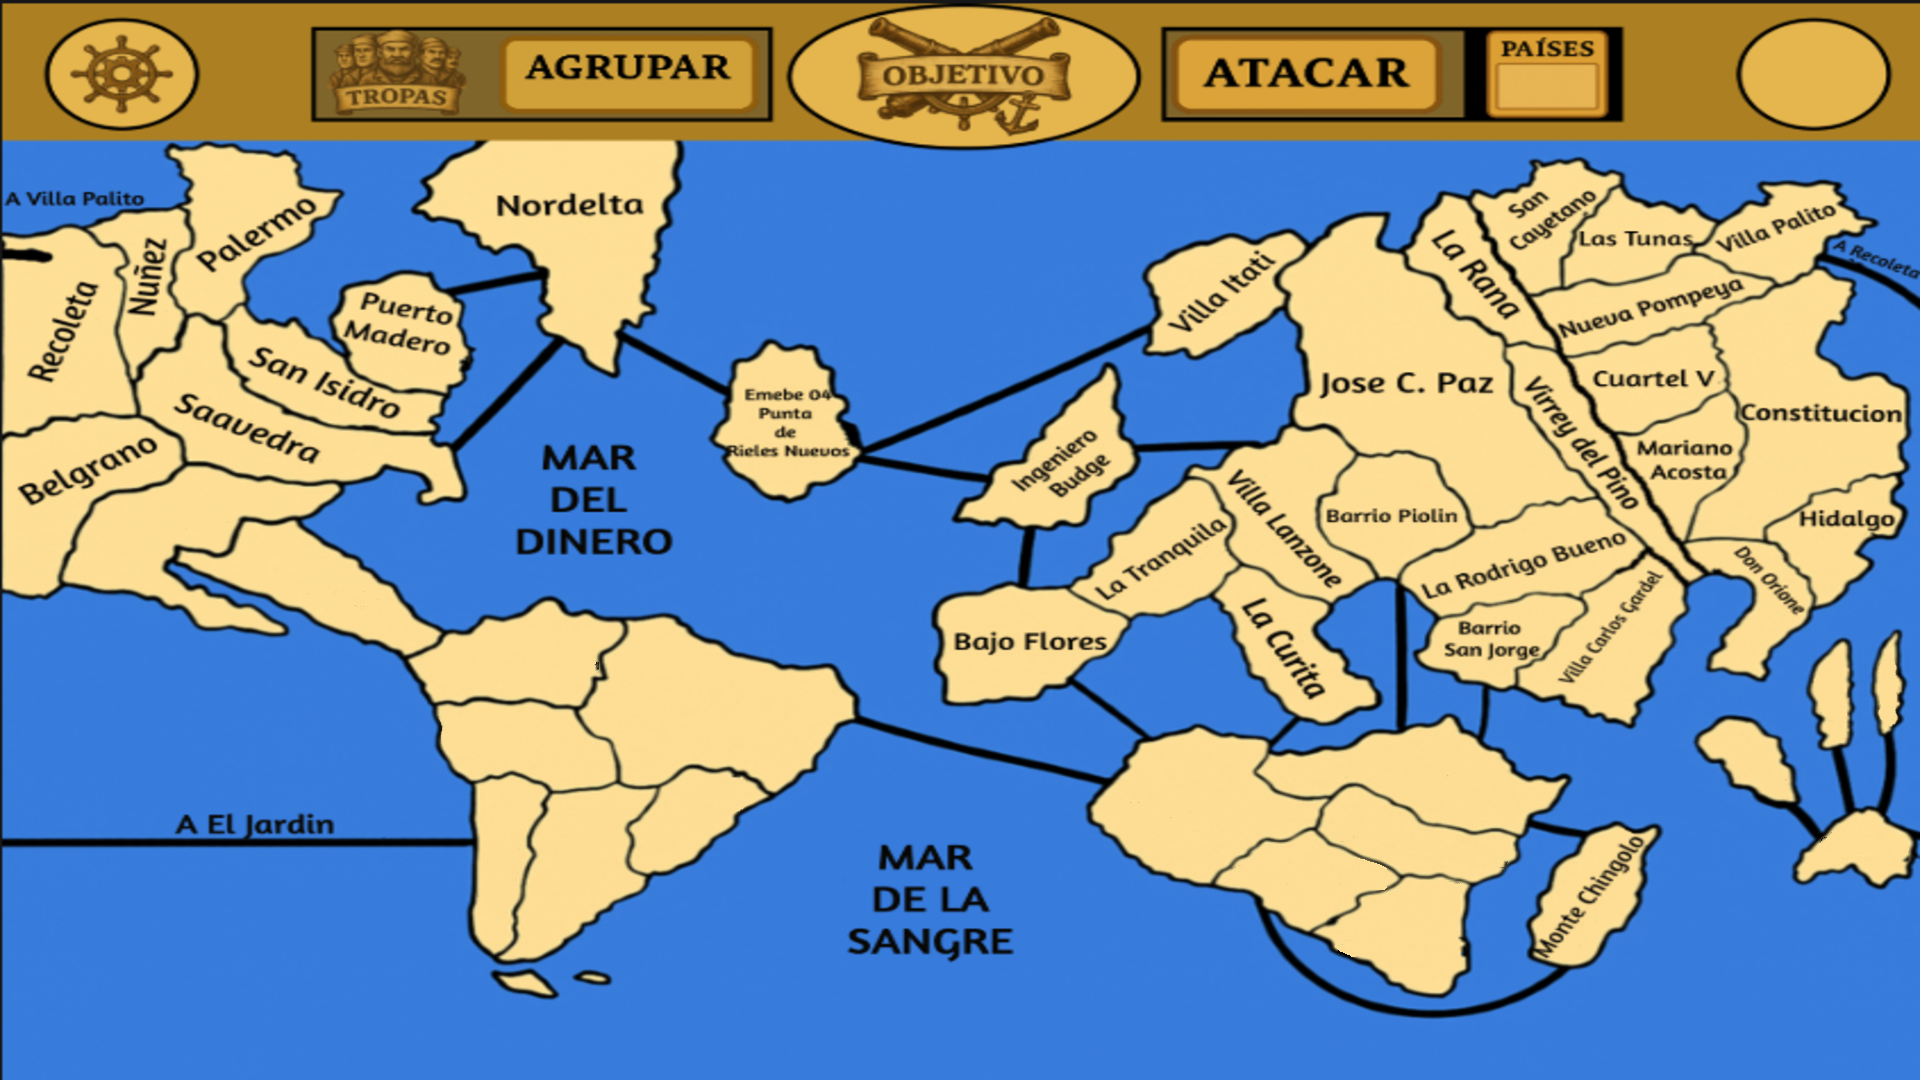
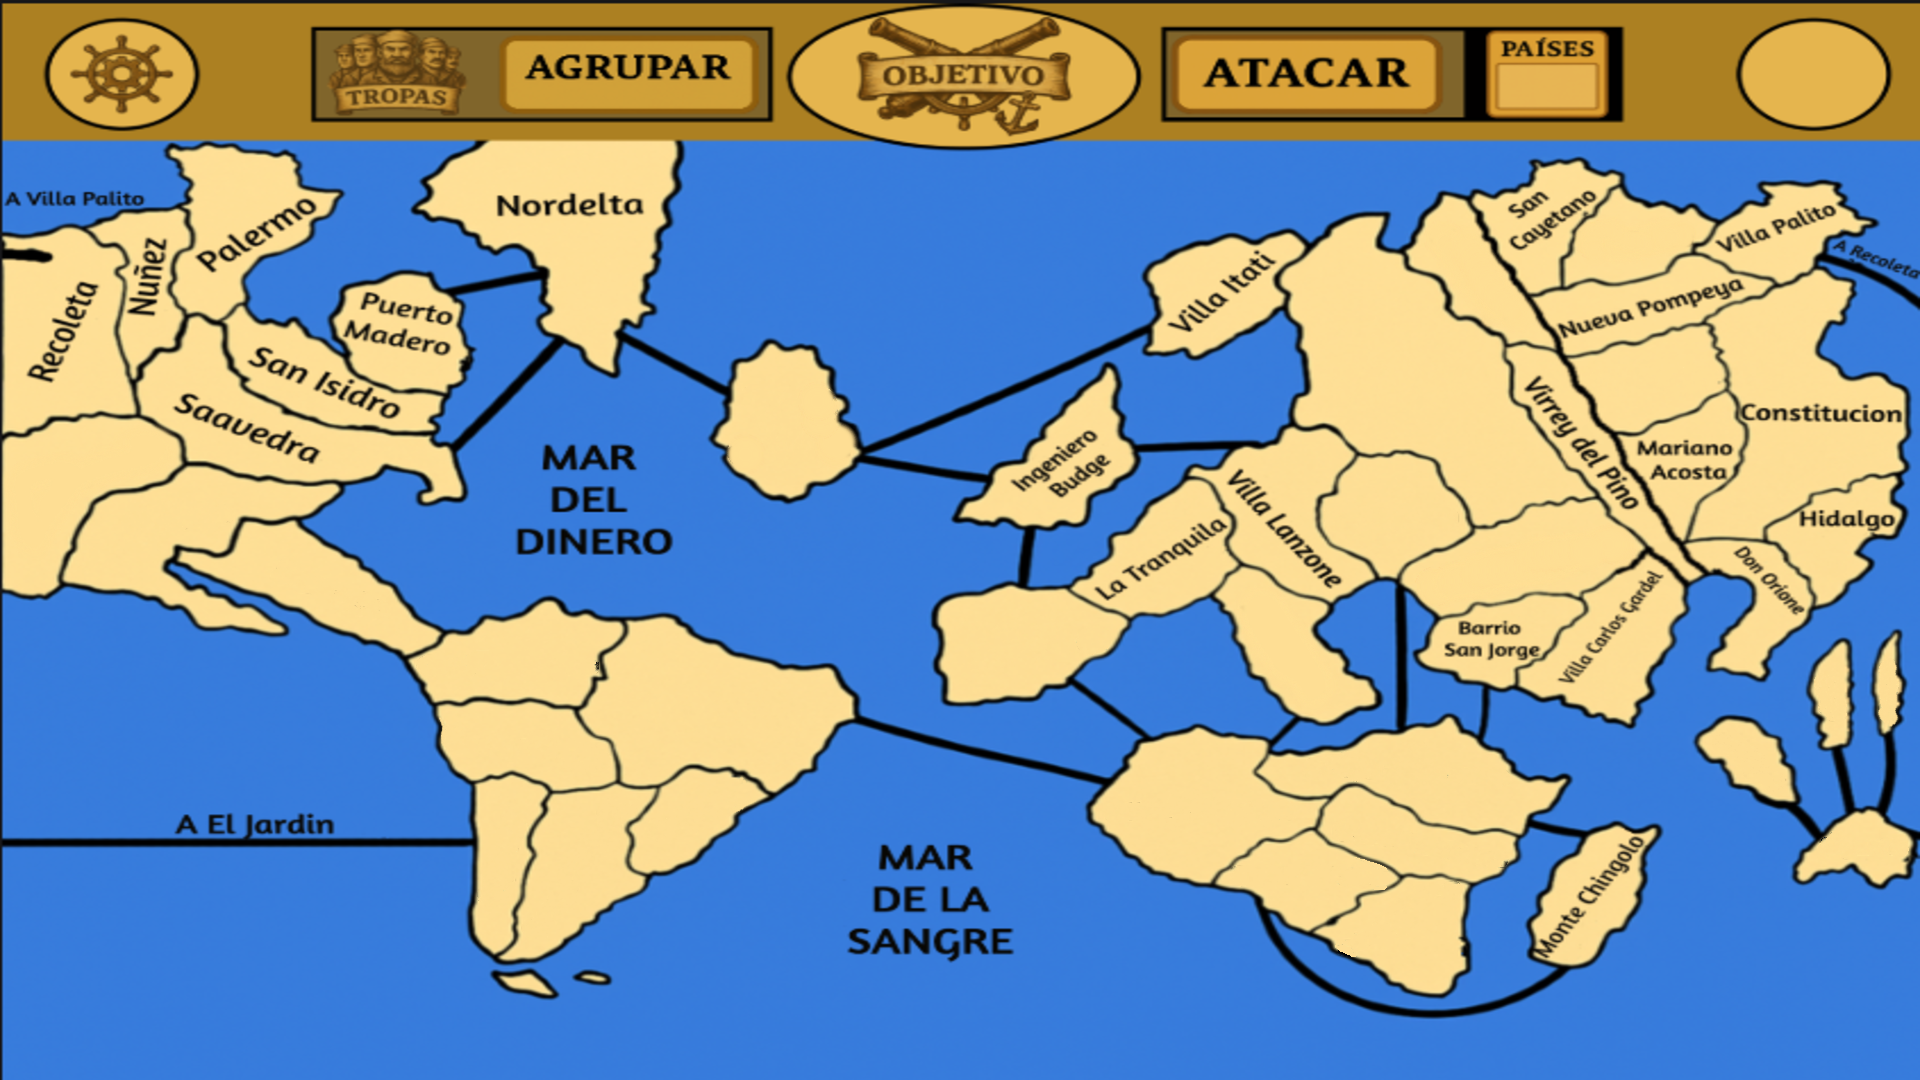
subiendo mas png de paises y agregando cordenadas de los png

diff --git a/core/src/main/java/com/miempresa/mijuego/pantallas/PantallaJuego.java b/core/src/main/java/com/miempresa/mijuego/pantallas/PantallaJuego.java
@@ -132,7 +132,7 @@ public class PantallaJuego implements Screen {
         spritesPaises.put("Villa la Cava", villaLaCava);
 */
         Sprite bajoFlores = new Sprite(new Texture("bajoFlores.png"));
-        bajoFlores.setPosition(1020, 437);
+        bajoFlores.setPosition(960, 420);
         bajoFlores.setScale(1.5f);
         spritesPaises.put("Bajo Flores", bajoFlores);
 
@@ -142,7 +142,7 @@ public class PantallaJuego implements Screen {
         spritesPaises.put("Pablo Mugica", pabloMugica);
 
         Sprite laRodrigoBueno = new Sprite(new Texture("laRodrigoBueno.png"));
-        laRodrigoBueno.setPosition(1425, 480);
+        laRodrigoBueno.setPosition(1450, 485);
         laRodrigoBueno.setScale(1.5f);
         spritesPaises.put("La Rodrigo Bueno", laRodrigoBueno);
 /*
@@ -183,7 +183,7 @@ public class PantallaJuego implements Screen {
         spritesPaises.put("La Tranquila", laTranquila);
 */
         Sprite laRana = new Sprite(new Texture("laRana.png"));
-        laRana.setPosition(1435, 850);
+        laRana.setPosition(1435, 770);
         laRana.setScale(1.5f);
         spritesPaises.put("La Rana", laRana);
 /*
@@ -197,17 +197,17 @@ public class PantallaJuego implements Screen {
         spritesPaises.put("Fuerte Apache", fuerteApache);
 
         Sprite cuartelV = new Sprite(new Texture("cuartelV.png"));
-        cuartelV.setPosition(1595, 700);
-        cuartelV.setScale(1.5f);
+        cuartelV.setPosition(1605, 690);
+        cuartelV.setScale(1.6f);
         spritesPaises.put("Cuartel V", cuartelV);
 
         Sprite joseCPaz = new Sprite(new Texture("joseCPaz.png"));
-        joseCPaz.setPosition(1315, 690);
+        joseCPaz.setPosition(1325, 670);
         joseCPaz.setScale(1.5f);
         spritesPaises.put("Jose C. Paz", joseCPaz);
 
         Sprite lasTunas = new Sprite(new Texture("lasTunas.png"));
-        lasTunas.setPosition(1575, 835);
+        lasTunas.setPosition(1595, 825);
         lasTunas.setScale(1.5f);
         spritesPaises.put("Las Tunas", lasTunas);
 
@@ -222,8 +222,8 @@ public class PantallaJuego implements Screen {
         spritesPaises.put("La 18", la18);
 
         Sprite barrioPiolin = new Sprite(new Texture("barrioPiolin.png"));
-        barrioPiolin.setPosition(1330, 560);
-        barrioPiolin.setScale(1.5f);
+        barrioPiolin.setPosition(1340, 540);
+        barrioPiolin.setScale(1.7f);
         spritesPaises.put("Barrio Piolin", barrioPiolin);
 /*
         Sprite villaLanzone = new Sprite(new Texture("villaLanzone.png"));
@@ -240,8 +240,8 @@ public class PantallaJuego implements Screen {
         spritesPaises.put("Villa 31", villa31);
 
         Sprite laCurita = new Sprite(new Texture("laCurita.png"));
-        laCurita.setPosition(1240, 490);
-        laCurita.setScale(1.8f);
+        laCurita.setPosition(1240, 380);
+        laCurita.setScale(1.5f);
         spritesPaises.put("La Curita", laCurita);
 
         Sprite villaSoldati = new Sprite(new Texture("villaSoldati.png"));
@@ -267,8 +267,8 @@ public class PantallaJuego implements Screen {
         spritesPaises.put("Don Orione", donOrione);
 */
         Sprite emebe04PuntaDeRielesNuevos = new Sprite(new Texture("emebe04PuntaDeRielesNuevos.png"));
-        emebe04PuntaDeRielesNuevos.setPosition(730, 625);
-        emebe04PuntaDeRielesNuevos.setScale(1.5f);
+        emebe04PuntaDeRielesNuevos.setPosition(730, 610);
+        emebe04PuntaDeRielesNuevos.setScale(1.1f);
         spritesPaises.put("Emebe 04 Punta de Rieles Nuevos", emebe04PuntaDeRielesNuevos);
 
         Sprite ciudadOculta = new Sprite(new Texture("ciudadOculta.png"));
@@ -324,11 +324,12 @@ public class PantallaJuego implements Screen {
         devoto.setPosition(300, 445);
         devoto.setScale(1.5f);
         spritesPaises.put("Devoto", devoto);
-/*
-        Sprite olivos = new Sprite(new Texture("olivos.png"));
-        olivos.setPosition(0, 0);
-        spritesPaises.put("Olivos", olivos);
 
+        Sprite olivos = new Sprite(new Texture("olivos.png"));
+        olivos.setPosition(150, 550);
+        olivos.setScale(1.6f);
+        spritesPaises.put("Olivos", olivos);
+/*
         Sprite sanIsidro = new Sprite(new Texture("sanIsidro.png"));
         sanIsidro.setPosition(0, 0);
         spritesPaises.put("San Isidro", sanIsidro);
@@ -346,8 +347,8 @@ public class PantallaJuego implements Screen {
         spritesPaises.put("Nuñez", nunez);
         */
         Sprite belgrano = new Sprite(new Texture("belgrano.png"));
-        belgrano.setPosition(22, 580);
-        belgrano.setScale(1.5f);
+        belgrano.setPosition(35, 570);
+        belgrano.setScale(1.6f);
         spritesPaises.put("Belgrano", belgrano);
     }
 

diff --git a/core/src/main/java/com/miempresa/mijuego/personajes/Jugador.java b/core/src/main/java/com/miempresa/mijuego/personajes/Jugador.java
@@ -156,7 +156,7 @@ public class Jugador {
         Collections.shuffle(paisesDisponibles);
 
         ArrayList<Pais> paisesAsignados = new ArrayList<>(
-            paisesDisponibles.subList(0, Math.min(16, paisesDisponibles.size()))
+            paisesDisponibles.subList(0, Math.min(48, paisesDisponibles.size()))
         );
 
         jugador.asignarPaises(paisesAsignados);
